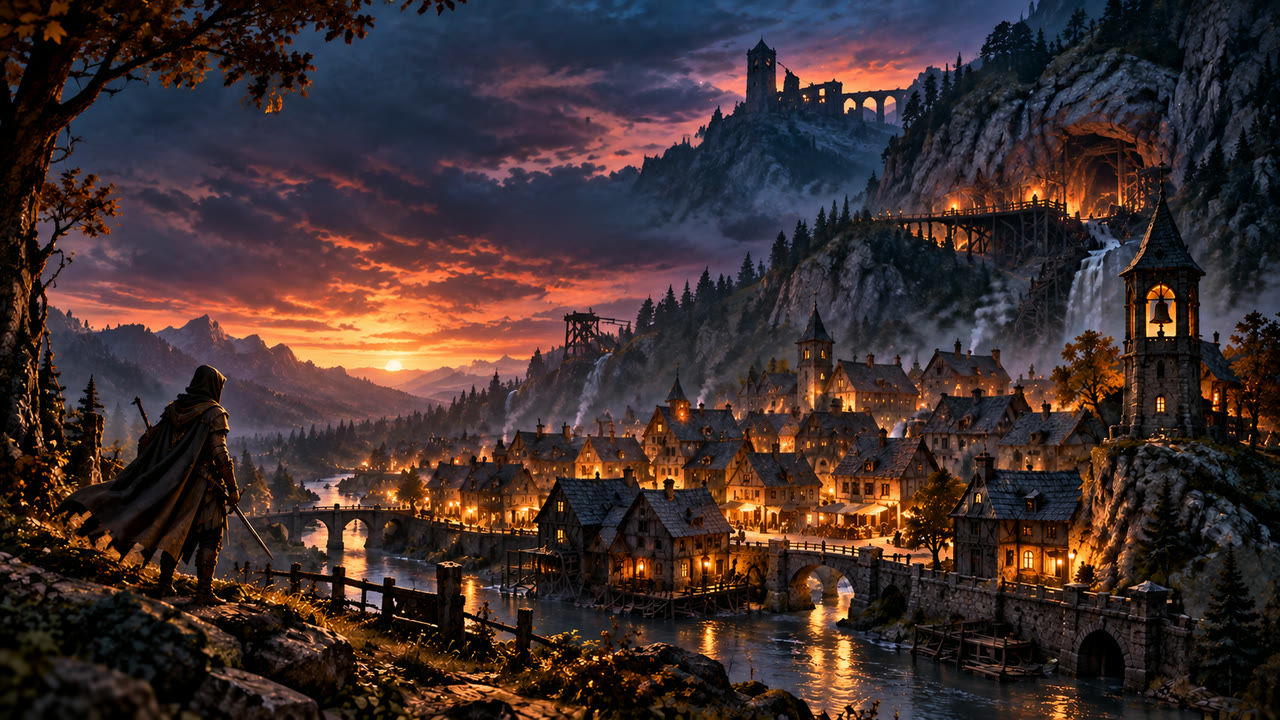
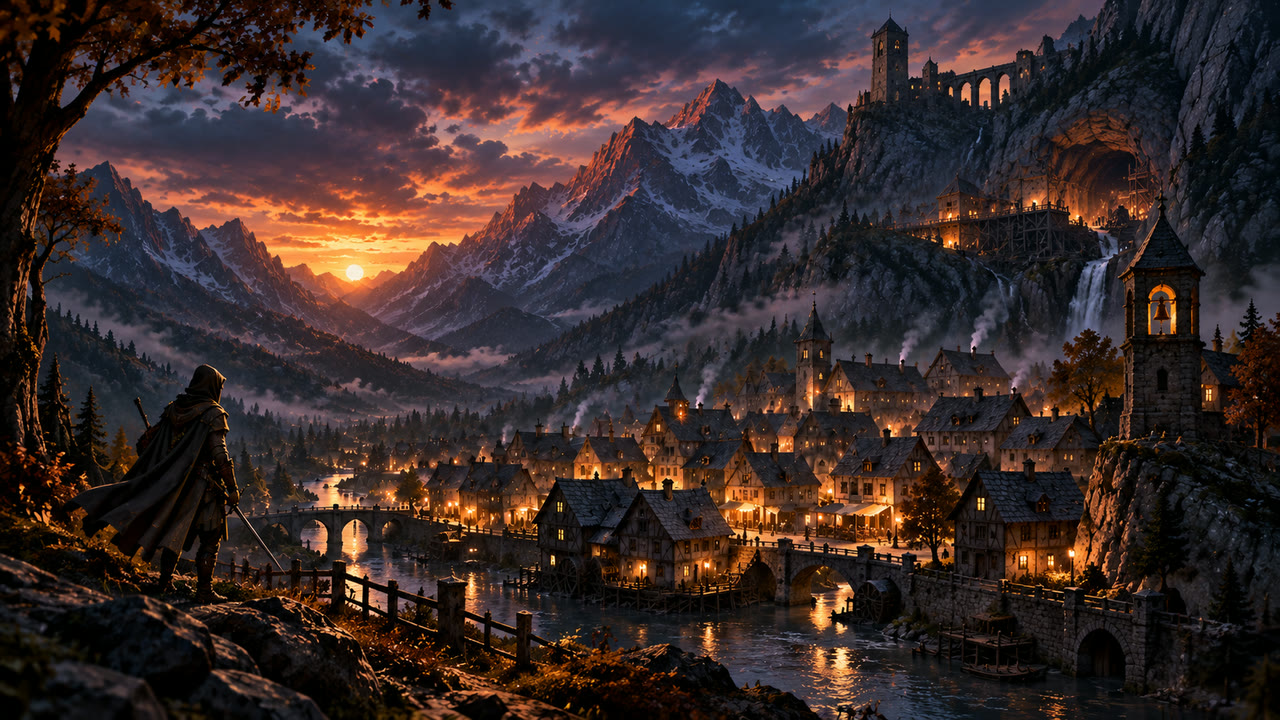
Use title key art v3 on the landing page (#7)
- Replaces the landing-page hero with the owner's v3 textless title art
(1280/2560 web copies).
- Shifts the hero crop on phones so the cloaked figure stays visible.
- Records the v3 approval in the key-art prompt file.
- Syncs the beads export: `mw-e00.24` closed; rest-point lamp direction
noted on the rest-points bead.

🤖 Generated with [Claude Code](https://claude.com/claude-code)

diff --git a/site/index.html b/site/index.html
@@ -34,6 +34,7 @@
   .hero::after { content: ""; position: absolute; inset: 0;
     background: linear-gradient(100deg, rgba(21,19,31,.72) 0%, rgba(21,19,31,.35) 42%, rgba(21,19,31,0) 65%),
                 linear-gradient(to bottom, rgba(21,19,31,0) 60%, var(--ink) 100%); }
+  @media (max-width: 720px) { .hero { background-position: 18% 40%; } }
   .hero-inner { position: relative; z-index: 1; padding: clamp(2.5rem, 8vw, 6rem) 16px 4rem clamp(16px, 6vw, 5rem); max-width: 44rem; }
   h1 { margin: 0; font: 700 clamp(2.8rem, 9vw, 6.2rem)/.95 "Cinzel", "Trajan Pro", Georgia, serif; letter-spacing: .02em;
     color: var(--cream); text-shadow: 0 2px 18px rgba(0,0,0,.6); text-wrap: balance; }

diff --git a/assets/prompts/keyart/keyart-title-screen-01.md b/assets/prompts/keyart/keyart-title-screen-01.md
@@ -31,9 +31,10 @@
 |---|---|---|---|---|---|
 | image | v1 | approved as logo / key-art master | owner | 2026-09-27 | title painted in |
 | image | v2 | approved as textless background | owner | 2026-09-27 | same scene, 1672×941; used as the website hero (lanczos-scaled copies in `site/img/`); regenerate or upscale to ≥ 2560×1440 before the in-game title screen |
+| image | v3 | approved; replaces v2 as the textless background | owner | 2026-09-27 | snow-capped peaks, hero moved inboard; 1672×941; website hero now uses v3 |
 
 ## Provenance (copy into `assets/CREDITS.md` on integrate)
 
 | Asset id | Source file | Tool | Date | Licence / terms | Prompt file |
 |---|---|---|---|---|---|
-| keyart-title-screen-01 | `assets/_incoming/keyart-title-screen-01/v1.png`, `v2.png` (textless) | ChatGPT image generation (OpenAI) | 2026-09-27 | OpenAI terms: output owned by the user | this file |
+| keyart-title-screen-01 | `assets/_incoming/keyart-title-screen-01/v1.png`, `v2.png` (textless), `v3.png` (textless, current) | ChatGPT image generation (OpenAI) | 2026-09-27 | OpenAI terms: output owned by the user | this file |
